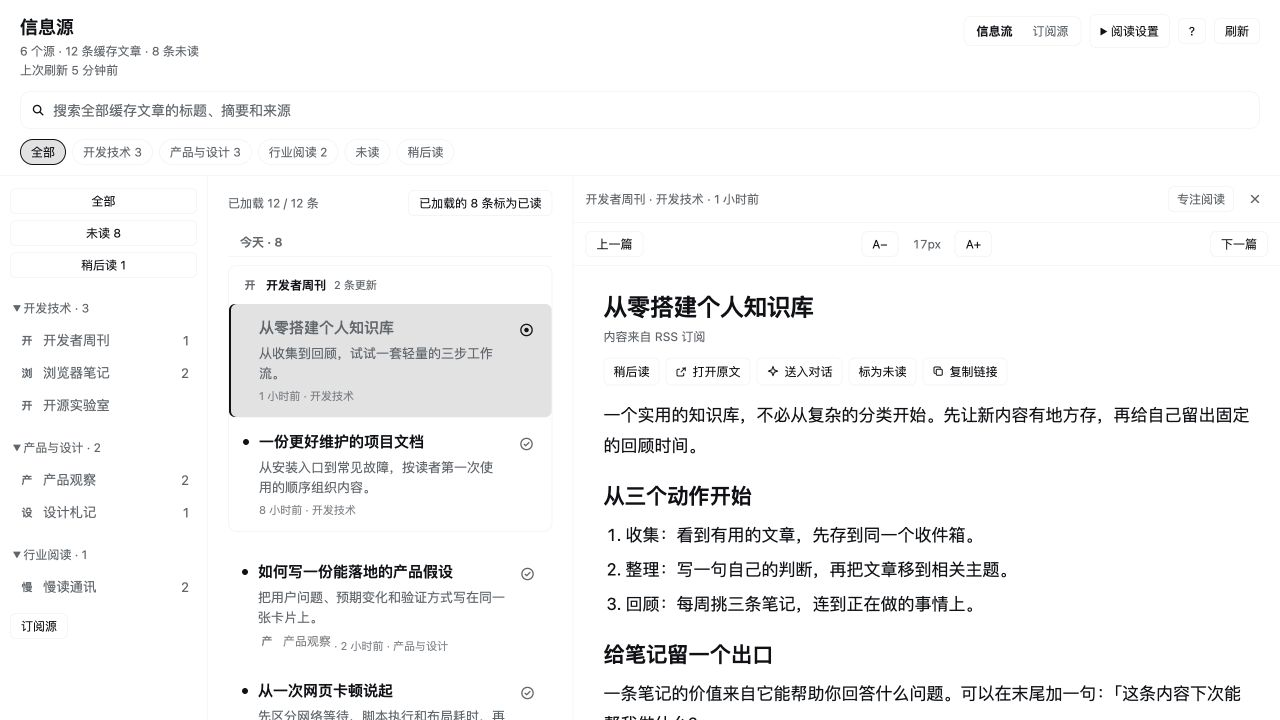
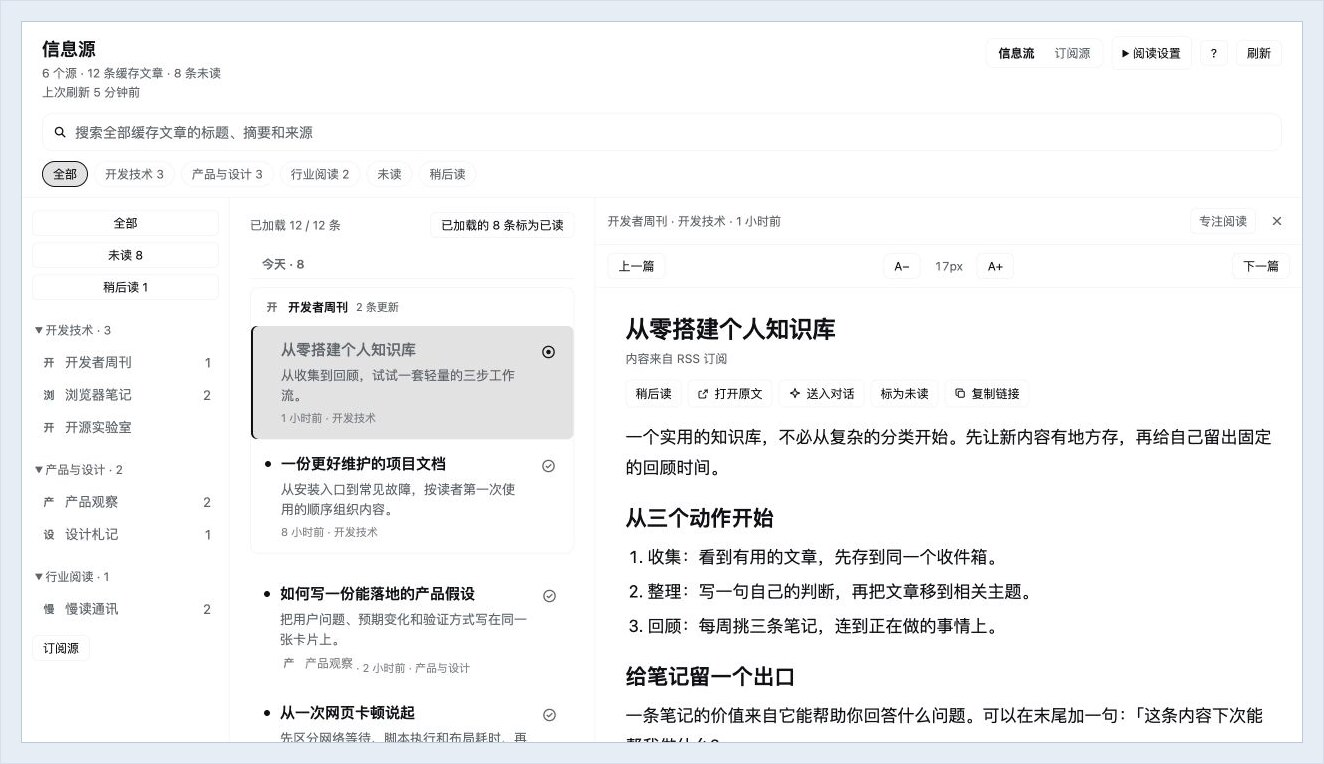
docs: frame Feeds screenshots for GitHub

diff --git a/docs/images/README.md b/docs/images/README.md
@@ -3,7 +3,8 @@
 README screenshots use the plugin UI with demo data. Use fictional subscriptions and article text
 (e.g. feed URLs under the reserved `.example` domain). Keep personal feeds, reading history,
 local paths, and unrelated app panels out of frame. Capture at native resolution, crop to the
-relevant UI, and keep each file under 500 KB.
+relevant UI, and use a subtle tinted frame so white panels stay visible on GitHub. Keep each
+file under 500 KB.
 
 | File | Content |
 | --- | --- |
